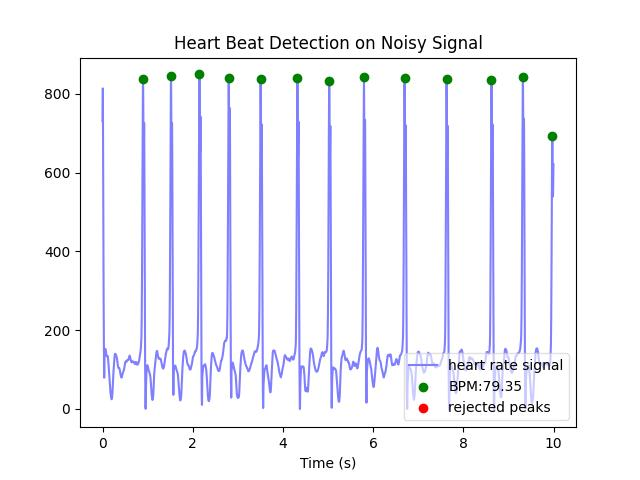
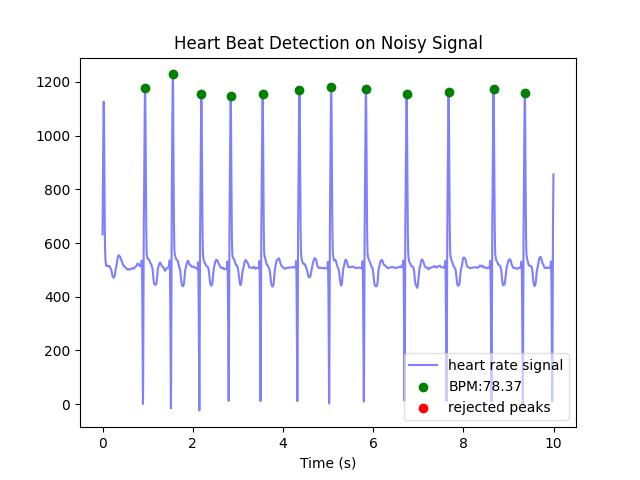
cambios varios

diff --git a/ecg3.py b/ecg3.py
@@ -1,8 +1,11 @@
 import pandas as pd
 import matplotlib.pyplot as plt
 import heartpy as hp
+import heartpy.analysis as analysis
+
 # Resample the signal to 100 Hz
-signal = hp.get_data('prueba2.csv', delim =',', column_name = 'II')
+signal = hp.get_data('prueba2.csv', delim =',', column_name = 'V1')
 working_data, measures = hp.process(signal, 500.0)
+print (measures)
 plot_object = hp.plotter(working_data, measures,title='Heart Beat Detection on Noisy Signal',show=False)
 plot_object.savefig('plot_1.jpg')
